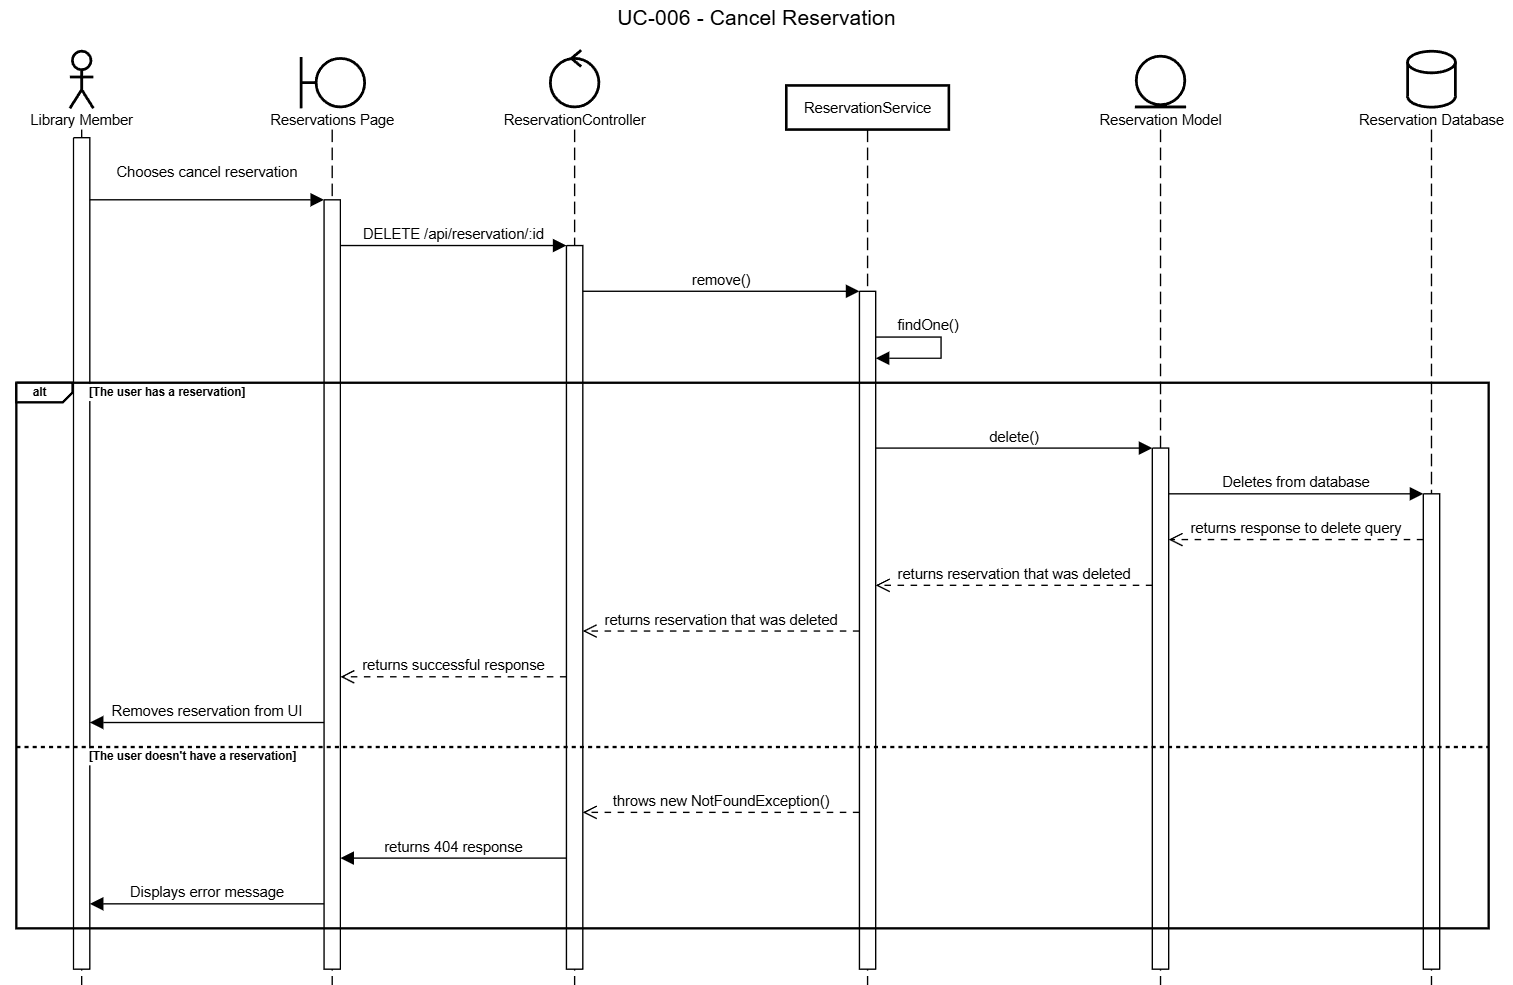
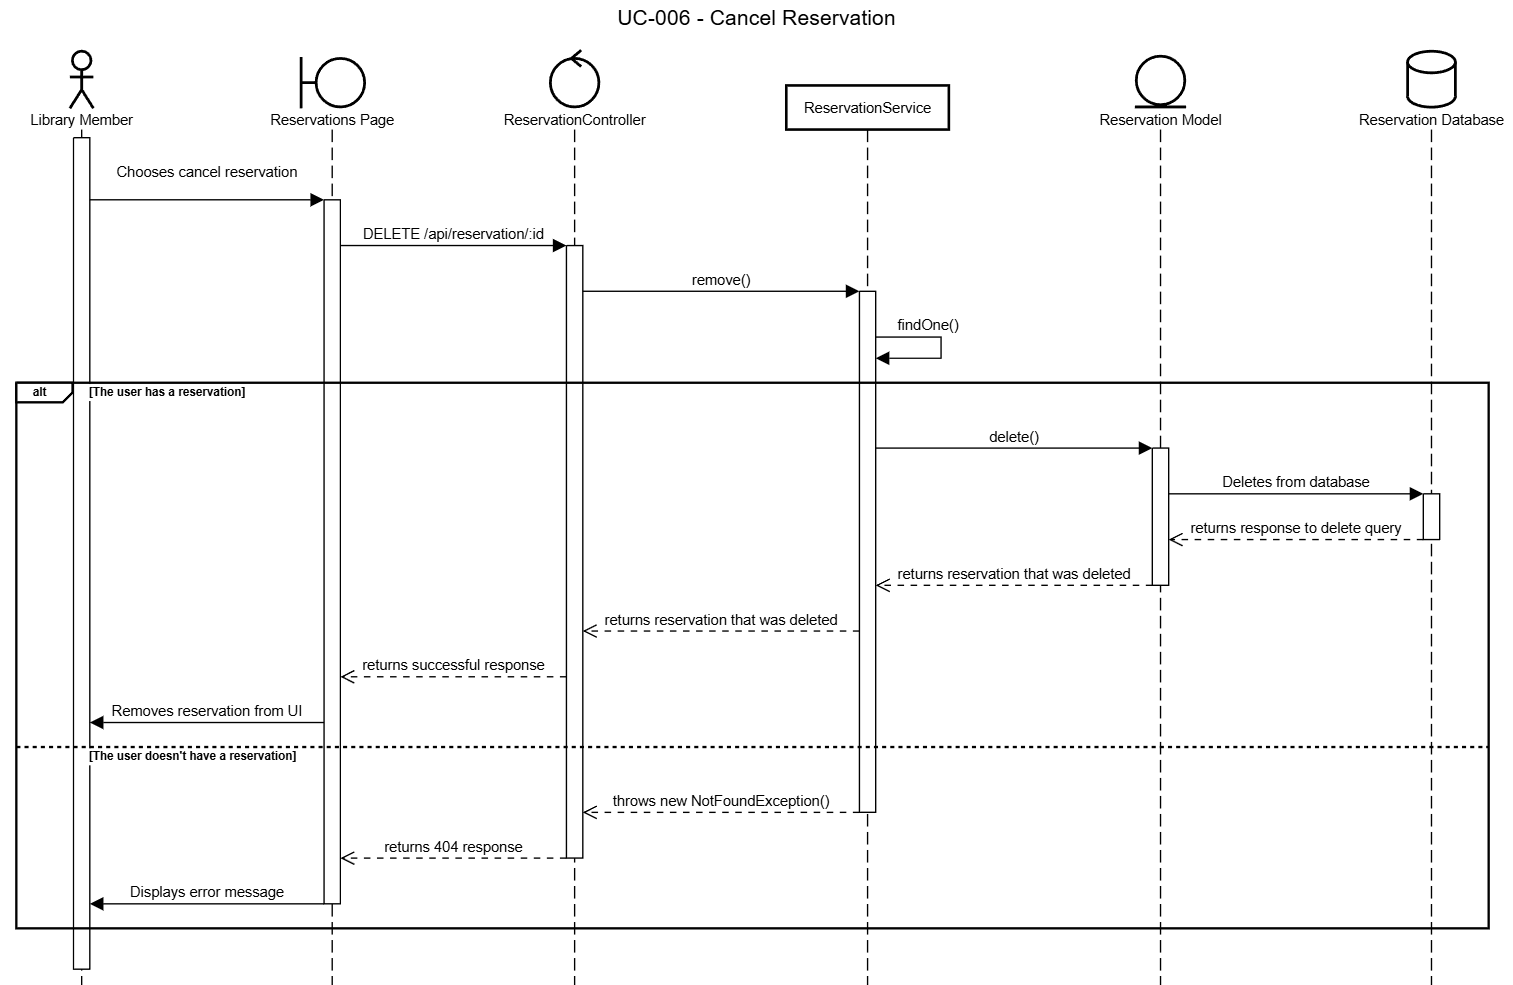
Updated sequence diagram

diff --git a/docs/sequence/cancel-reservation.md b/docs/sequence/cancel-reservation.md
@@ -22,12 +22,17 @@ activate Reservation Model
 Reservation Model->Reservation Database:Deletes from database
 activate Reservation Database
 Reservation Model<<--Reservation Database:returns response to delete query
+deactivate Reservation Database
 ReservationService<<--Reservation Model:returns reservation that was deleted
+deactivate Reservation Model
 ReservationController<<--ReservationService:returns reservation that was deleted
 Reservations Page<<--ReservationController:returns successful response
 Library Member<-Reservations Page:Removes reservation from UI
 else The user doesn't have a reservation
 ReservationController<<--ReservationService:throws new NotFoundException()
-Reservations Page<-ReservationController:returns 404 response
+deactivate ReservationService
+Reservations Page<<--ReservationController:returns 404 response
+deactivate ReservationController
 Library Member<-Reservations Page:Displays error message
+deactivate Reservations Page
 end
